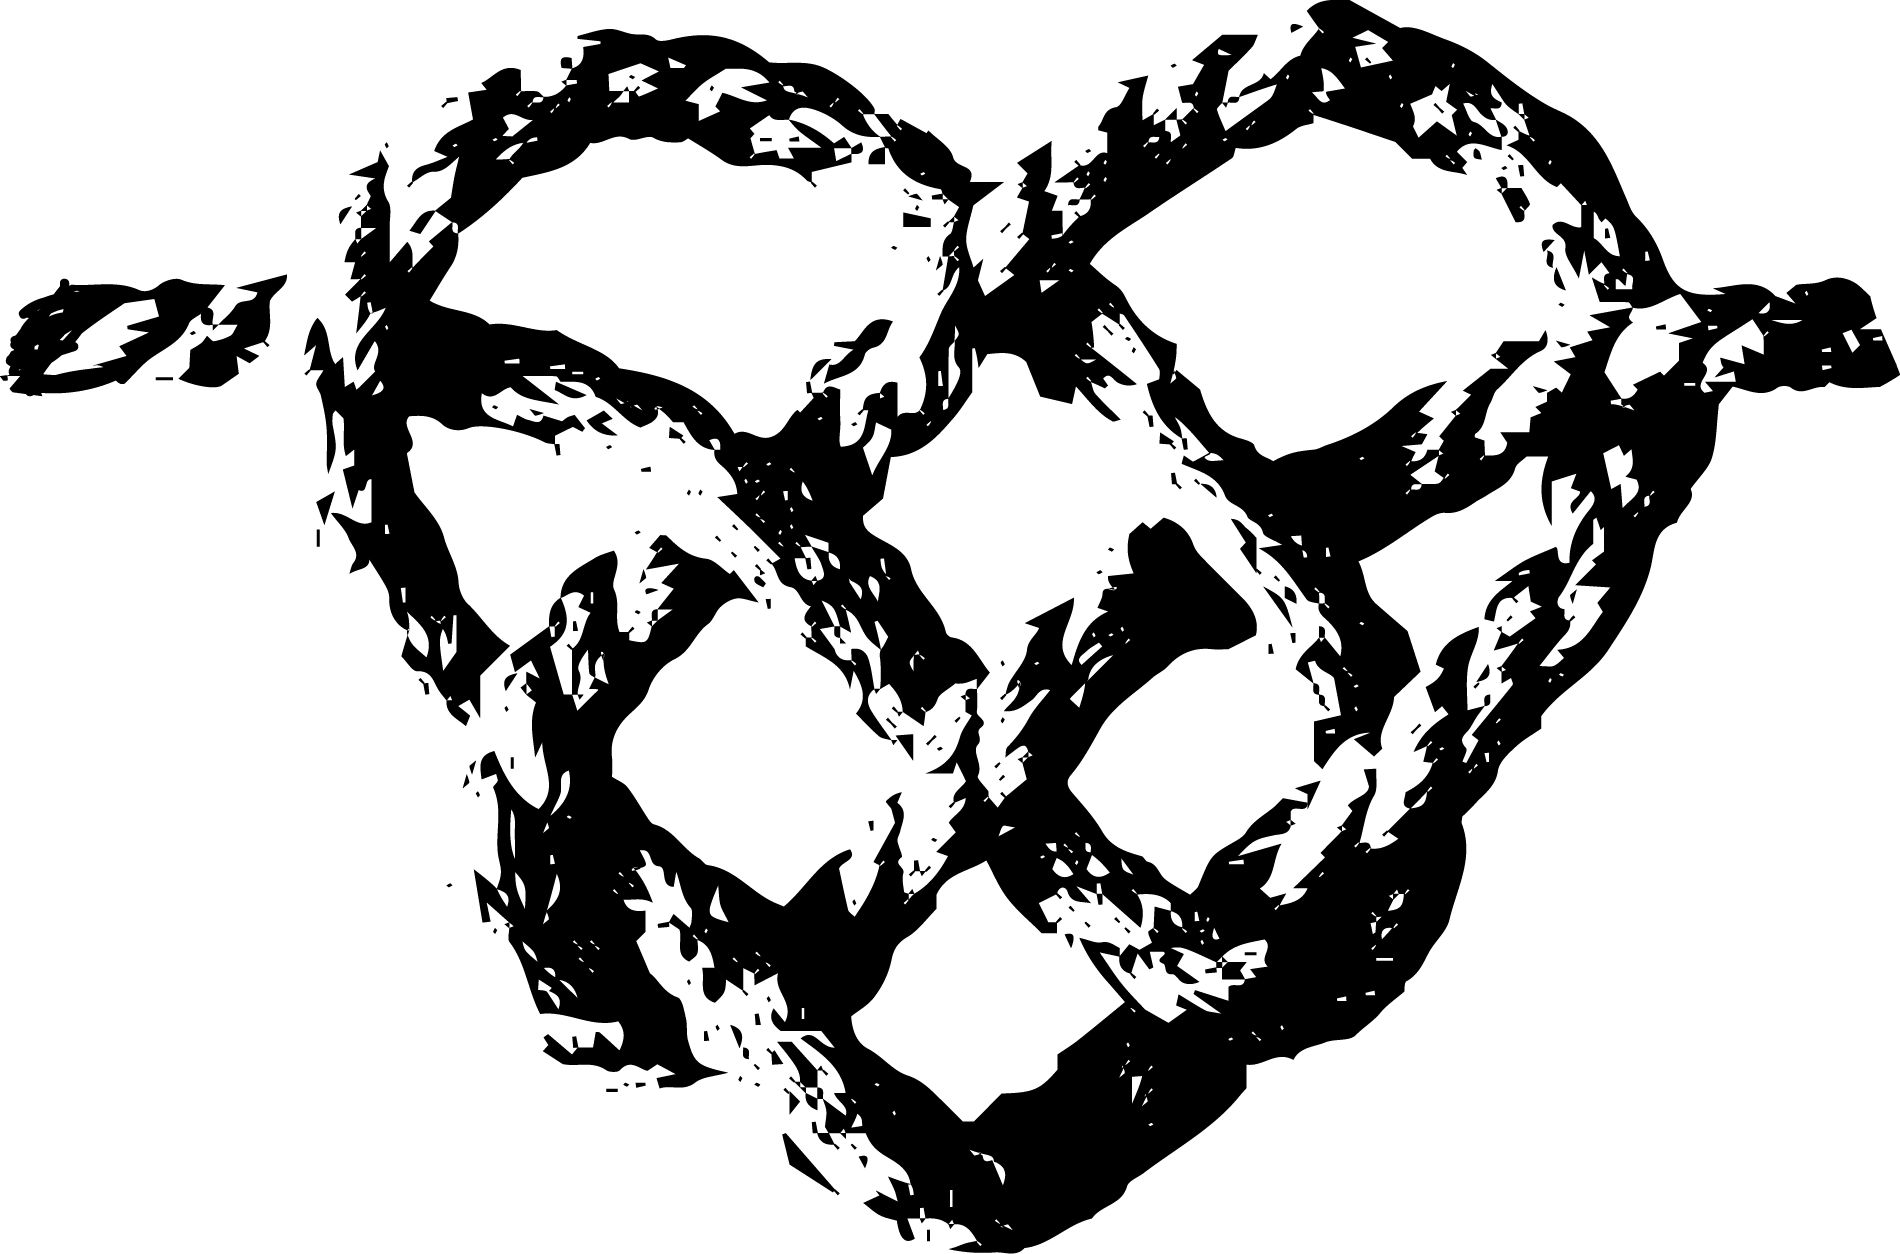
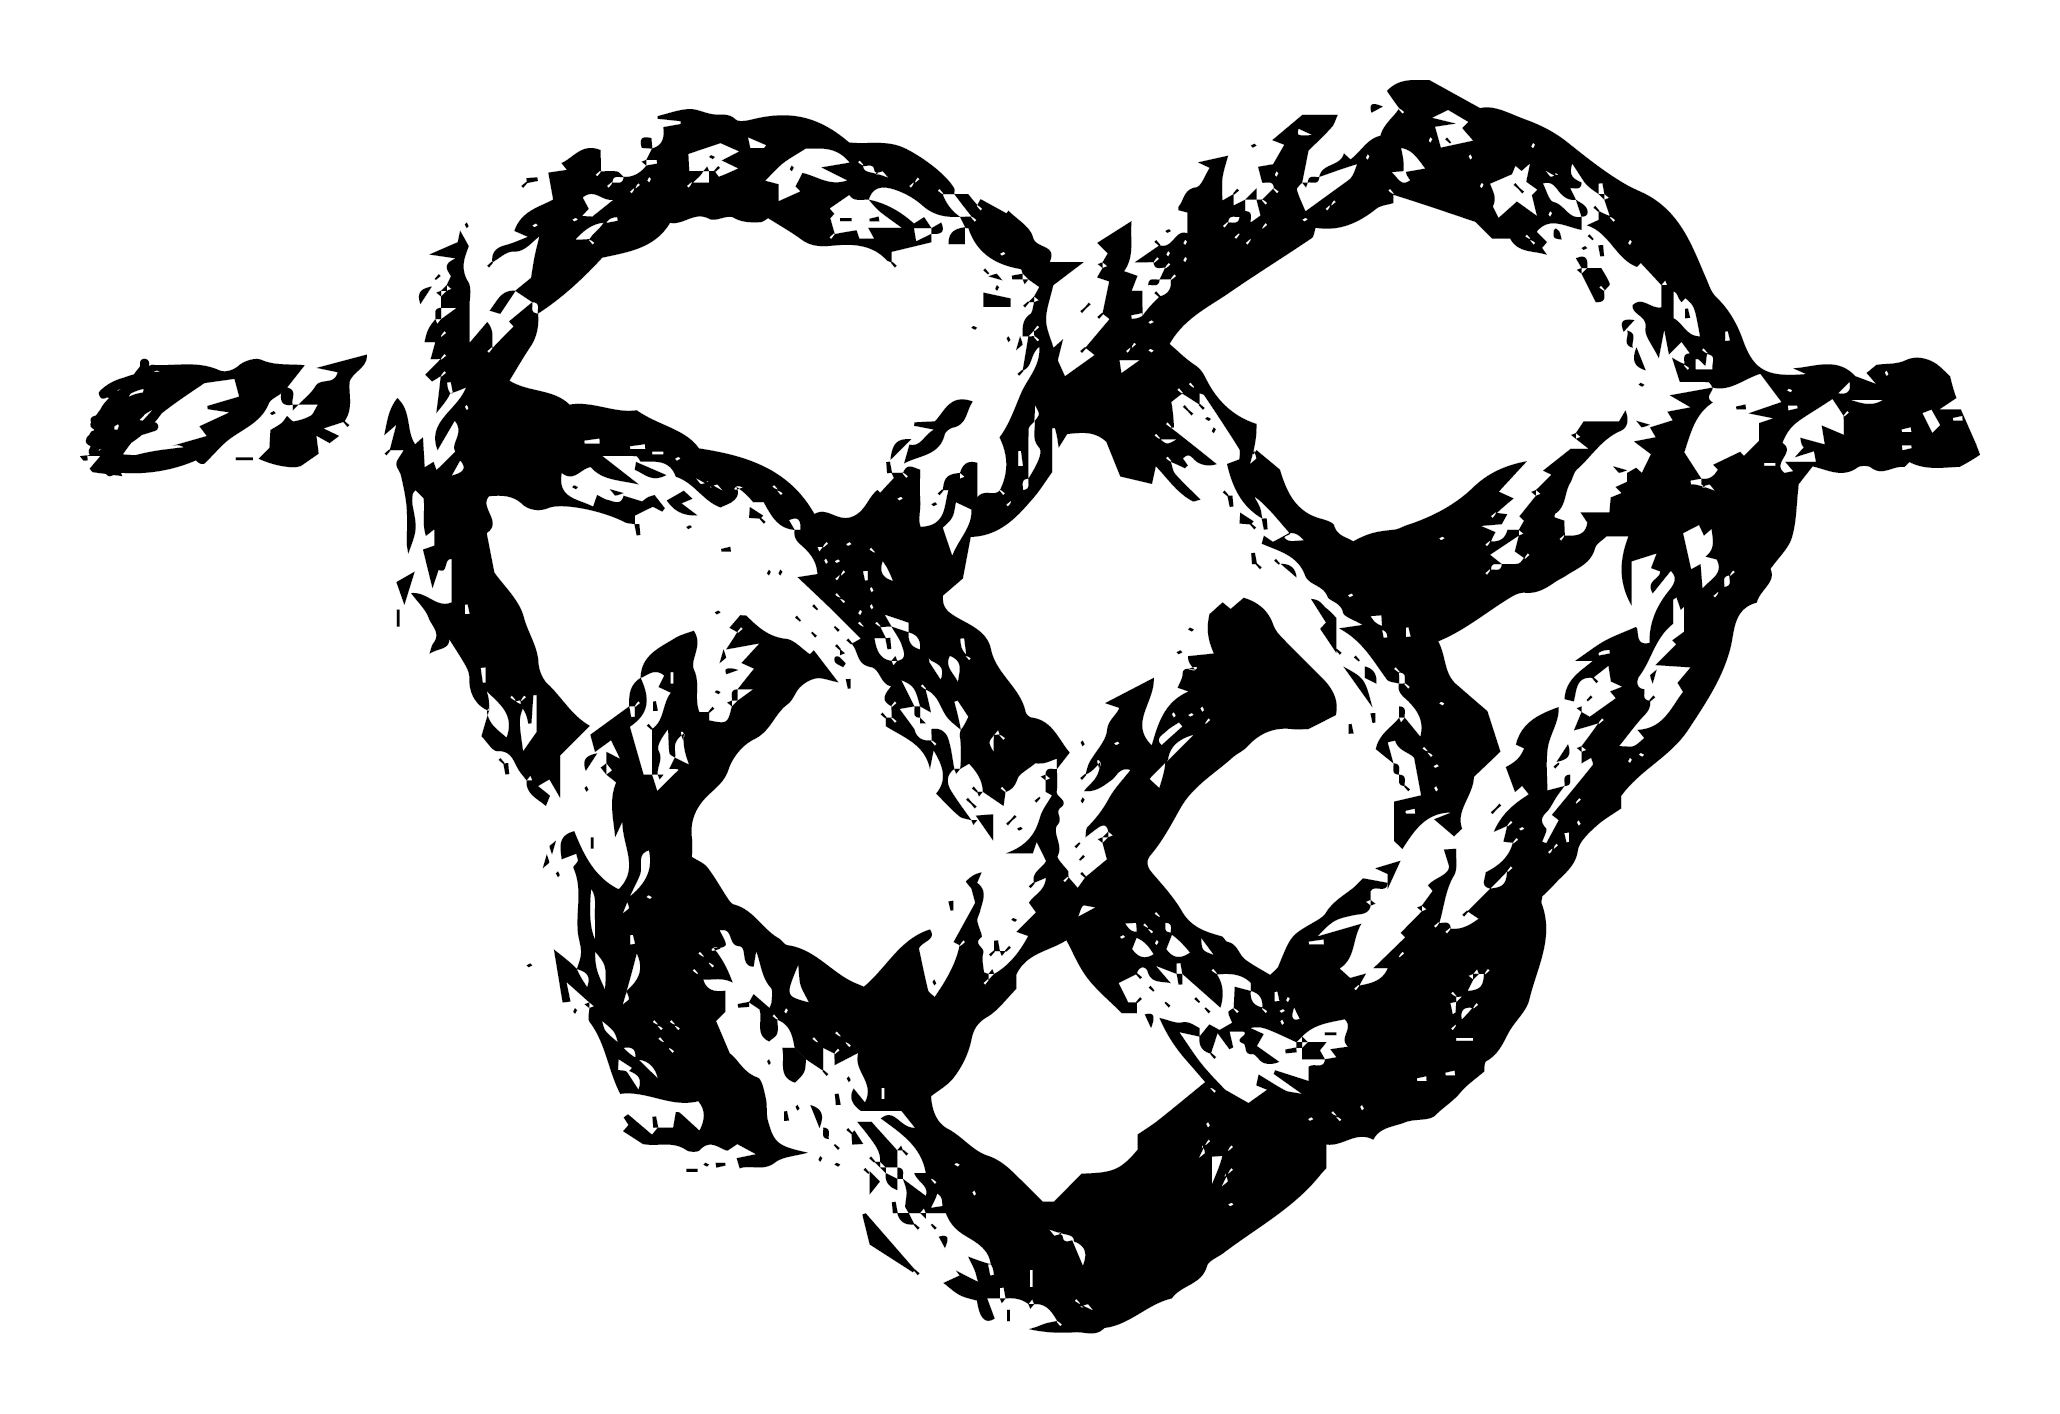
fix: composite dark transparent graphics on white, remove duplicate Kira poster, and add canvas light/dark toggle

Changed region(s): [[0.0, 0.0, 1.0, 1.0]]

diff --git a/index.html b/index.html
@@ -676,6 +676,23 @@
       overflow: hidden;
       background: #090a10;
       border: 1px solid var(--card-border);
+      transition: background 0.25s ease;
+    }
+
+    .carousel-container.light-mode {
+      background: #ffffff !important;
+      border-color: rgba(255, 255, 255, 0.25);
+    }
+
+    .carousel-container.light-mode .carousel-track {
+      background: #ffffff !important;
+    }
+
+    .carousel-container.light-mode .carousel-arrow {
+      background: rgba(255, 255, 255, 0.85);
+      color: #111;
+      border-color: rgba(0, 0, 0, 0.15);
+      box-shadow: 0 4px 15px rgba(0,0,0,0.15);
     }
 
     .carousel-track {
@@ -1108,7 +1125,7 @@
       <div class="card" data-category="posters">
         <div class="card-thumb" onclick="openModal('nerio_kira')">
           <span class="pillar-tag">Apparel Merch & Botanical Art</span>
-          <span class="image-counter-badge">📸 5 Slides</span>
+          <span class="image-counter-badge">📸 4 Slides</span>
           <img src="./portfolio_curated/04_Artworks_Merch_AI/NERIO_Organic_Tshirt_Mockup.jpg" alt="NERIO Organic Cotton T-Shirt Mockup">
         </div>
         <div class="card-body">
@@ -1328,9 +1345,14 @@
           <span style="color:rgba(255,255,255,0.2);">|</span>
           <span style="font-size:12px;">Use <strong>←</strong> / <strong>→</strong> arrow keys to browse</span>
         </div>
-        <div class="autoplay-badge running" id="autoplay-toggle" onclick="toggleAutoplay()">
-          <span class="autoplay-pulse" id="autoplay-pulse-dot"></span>
-          <span id="autoplay-status-text">Auto-Play: 5s</span>
+        <div style="display:flex; align-items:center; gap:8px;">
+          <div class="bg-mode-toggle" id="bg-toggle-btn" onclick="toggleCanvasBg()" title="Toggle canvas background between dark and light" style="cursor:pointer; display:inline-flex; align-items:center; gap:6px; background:rgba(255,255,255,0.06); padding:4px 10px; border-radius:100px; font-size:12px; color:#fff; border:1px solid rgba(255,255,255,0.1); transition:all 0.2s;">
+            <span id="bg-mode-icon">🌓</span> <span id="bg-mode-text">Canvas: Dark</span>
+          </div>
+          <div class="autoplay-badge running" id="autoplay-toggle" onclick="toggleAutoplay()">
+            <span class="autoplay-pulse" id="autoplay-pulse-dot"></span>
+            <span id="autoplay-status-text">Auto-Play: 5s</span>
+          </div>
         </div>
       </div>
 
@@ -1392,8 +1414,7 @@
           "./portfolio_curated/04_Artworks_Merch_AI/NERIO_Organic_Tshirt_Mockup.jpg",
           "./portfolio_curated/04_Artworks_Merch_AI/Kira_SpecialtyCoffee_Garden_Poster.jpg",
           "./portfolio_curated/04_Artworks_Merch_AI/NERIO_BoundToHeart_Graphic.png",
-          "./portfolio_curated/04_Artworks_Merch_AI/NERIO_Quote_Typography.png",
-          "./portfolio_curated/04_Artworks_Merch_AI/Kira_Cafe_Botanical_Poster.png"
+          "./portfolio_curated/04_Artworks_Merch_AI/NERIO_Quote_Typography.png"
         ],
         challenge: "Deliver tactile, conscious graphic design for boutique ethical brands—an organic cotton streetwear label in Buenos Aires and a specialty coffee shop's garden compost initiative.",
         solution: "Engineered the 'Bound to Heart' custom rope artwork and typographic quote designed for screen-printing on heavyweight organic cotton t-shirts, complemented by vintage hand-drawn botanical vector posters encouraging customers to recycle coffee grounds.",
@@ -1688,6 +1709,23 @@
       currentSlideIdx = idx;
       updateSlideView();
       resetAutoplayTimer();
+    }
+
+    let isCanvasLight = false;
+    function toggleCanvasBg() {
+      isCanvasLight = !isCanvasLight;
+      const box = document.getElementById('carousel-box');
+      const text = document.getElementById('bg-mode-text');
+      const icon = document.getElementById('bg-mode-icon');
+      if (isCanvasLight) {
+        box.classList.add('light-mode');
+        text.innerText = 'Canvas: Light';
+        icon.innerText = '☀';
+      } else {
+        box.classList.remove('light-mode');
+        text.innerText = 'Canvas: Dark';
+        icon.innerText = '🌓';
+      }
     }
 
     function startAutoplay() {

diff --git a/PORTFOLIO_CASE_STUDIES.md b/PORTFOLIO_CASE_STUDIES.md
@@ -142,7 +142,7 @@ Bilingual in **English (C1/C2)** and **Spanish (Native)**, Edgar combines high-v
 ## 📌 PILLAR 4: Posters, Merch, Apparel & Generative AI
 *Creative direction, music single packaging, commemorative cultural posters, branded apparel, and state-of-the-art AI prompt generation.*
 
-### Case 11: NERIO & Kira — Sustainable Apparel Merch & Botanical Art (5 Slides)
+### Case 11: NERIO & Kira — Sustainable Apparel Merch & Botanical Art (4 Slides)
 - **Client / Project:** NERIO Organic Cotton & Kira Café de Especialidad
 - **Role:** Graphic Artist & Merch Designer
 - **Tools:** Adobe Illustrator, Photoshop
